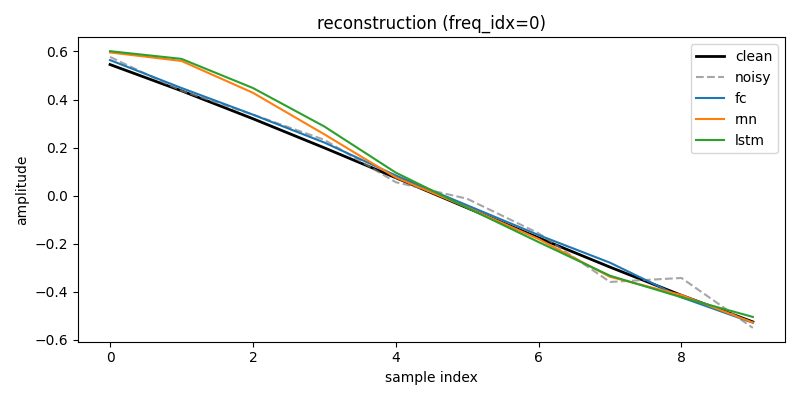
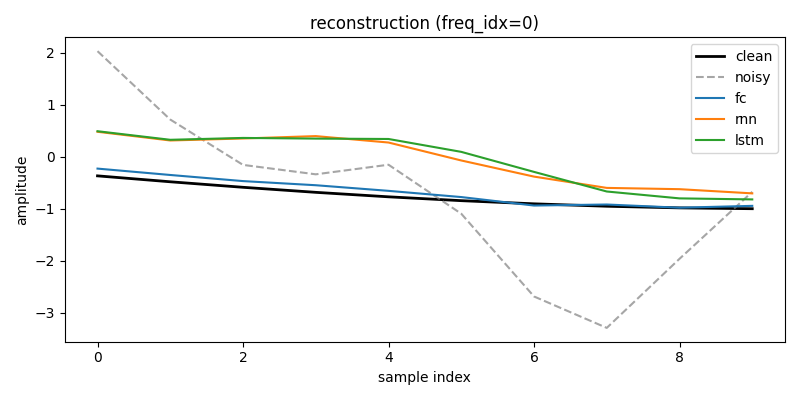
Update README for noisy mixture extraction results

diff --git a/README.md b/README.md
@@ -1,4 +1,4 @@
-# Sine/Cosine Signal Denoising — Comparing FC, RNN, and LSTM
+# Conditional Component Extraction from a Noisy Sine Mixture — Comparing FC, RNN, and LSTM
 
 > Course: AI Agent Orchestration and Deep Learning — Homework 1.
 > Author: Mohamed Awad.
@@ -6,45 +6,61 @@
 
 ## Abstract
 
-We compare three neural-network architectures on a controlled signal-denoising task: a Fully Connected (FC) network, a vanilla Elman RNN, and an LSTM. Each model receives a 10-sample noisy window of a sinusoid, the one-hot identity of one of four known frequencies, and the noise level `sigma`, and must predict the corresponding 10 clean samples. All three are trained on identical data with the same loss (MSE), optimizer (Adam @ `lr=1e-3`), batch size, and schedule (30 epochs, early stopping with patience 5), so the only changing factor is the backbone family. On a held-out test set of 3,200 windows the FC achieves the lowest test MSE (0.00465) and the largest SNR improvement (+8.80 dB); the LSTM (0.01255 / +4.49 dB) modestly beats the vanilla RNN (0.01352 / +4.16 dB). All three models degrade gracefully with the noise level and produce nearly flat per-frequency errors.
+We compare three neural-network architectures — Fully Connected (FC), vanilla Elman RNN, and LSTM — on a controlled conditional-extraction task. The model receives a 10-sample window of a noisy mixture that sums one independently-noised realisation of each of four known frequency components, plus a one-hot query `C` selecting which component to reconstruct, and must predict the clean window of that selected component. All three models are trained on the same data with the same loss (MSE), optimiser (Adam @ `lr = 1e-3`), batch size, and 30-epoch schedule with patience-5 early stopping. On a held-out test set of 3,200 query records the FC achieves the lowest test MSE (**0.137753**) and the largest SNR improvement (**+10.76 dB**); the LSTM (0.259095 / +8.02 dB) and the vanilla RNN (0.262388 / +7.96 dB) are roughly tied at the harder task. Per-frequency behaviour shows a strong monotonic pattern: the higher frequencies (5 Hz, 10 Hz) are markedly easier to extract than the lower ones (1 Hz, 2 Hz), because at `fs = 50 Hz` a 10-sample window covers only 0.2 s — only 0.2 / 0.4 cycles of 1 / 2 Hz components, but 1 / 2 full cycles of 5 / 10 Hz components.
 
 ## 1. Assignment interpretation
 
-The assignment defines the dataset entry and the loss but leaves the model interface implicit. We adopt the following interpretation:
+The dataset entry pairs a noisy mixture window with the clean component identified by a one-hot query. The interpretation we adopt is:
 
-> Each model receives `(x_noisy, C, sigma)` and predicts `y_clean` of the same length as `x_noisy`. Training minimises `MSE(y_pred, y_clean)`.
+> Each model receives `(x_noisy, C, sigma)` and predicts `y_clean` of the same length as `x_noisy`. `x_noisy` is a 10-sample window of the noisy mixture (sum of four independently-noised sine components), `C` is a one-hot vector that selects which of the four known frequencies to reconstruct, and `y_clean` is the clean window of that selected component. Training minimises `MSE(y_pred, y_clean)`.
 
-For the RNN/LSTM, `C` and `sigma` are broadcast across all 10 timesteps, so each step sees `[x_t, C, sigma] ∈ R^6`. For the FC, the whole window is flattened together with `C` and `sigma` into a single `R^15` vector. The full chain of assumptions and their justifications lives in `docs/PRD.md` §7.
+For RNN/LSTM, `C` and `sigma` are broadcast across all 10 timesteps, so each step sees `[x_t, C, sigma] ∈ R^6`. For FC, the entire window is flattened together with `C` and `sigma` into a single `R^15` vector. The full chain of assumptions and their justifications lives in `docs/PRD.md`.
 
 ## 2. Dataset generation
 
-A signal at frequency `f_k` is `s_k(t) = A · sin(2π f_k t + φ)`, with `A = 1`, a per-realisation random phase `φ ~ Uniform[0, 2π)`, and additive Gaussian noise `ε ~ N(0, σA)` summed onto the clean samples.
+For realisation `r` and component `k ∈ {0, 1, 2, 3}` (frequencies `{1, 2, 5, 10}` Hz):
+
+```
+clean_{r,k}(t) = sin(2π f_k t + φ_{r,k})
+noisy_{r,k}(t) = clean_{r,k}(t) + ε_{r,k}(t),   ε_{r,k} ~ N(0, σ)
+mixture_r(t)   = Σ_k noisy_{r,k}(t)
+```
+
+with `φ_{r,k} ~ Uniform[0, 2π)` re-drawn independently per realisation per frequency, and `σ` taken from the four levels listed below (a fraction of unit amplitude `A = 1`). The four per-component noise traces are independent, so the noise component of `mixture_r` has standard deviation `2 · σ · A` (variance four times each component's).
 
 | Parameter | Value |
 |---|---|
 | Frequencies | `{1, 2, 5, 10}` Hz |
 | Sigmas | `{0.05, 0.10, 0.20, 0.30}` (fraction of amplitude) |
-| Sampling rate | `fs = 50 Hz` (5× oversampling above Nyquist) |
-| Duration | 10 s → 500 samples per realisation |
-| Realisations per `(freq, sigma)` | 25 |
+| Sampling rate | `fs = 50 Hz` |
+| Duration | 10 s → 500 samples per mixture |
+| Realisations per σ | 25 |
 | Window | 10 samples, **non-overlapping** |
-| Total examples | 4 × 4 × 25 × 50 = **20,000** windows |
+| Queries per window | 4 (one per frequency) |
+| Total examples | `4 σ × 25 mixtures × 50 windows × 4 queries = 20,000` |
 
-Splits are stratified by `(freq, sigma)` at the **realisation** level (not the window level), so all windows from the same signal stay in the same split. This prevents temporal leakage between train / val / test.
+Splits are stratified by `σ` at the **realisation** level (not the window level, not the query level): all `4 × 50 = 200` records belonging to one mixture stay together. Per σ stratum we use 17 / 4 / 4 mixtures for train / val / test, giving **13,600 / 3,200 / 3,200** examples in total.
 
-| Split | Realisations / stratum | Examples |
-|---|---|---|
-| Train | 17 | 13,600 |
-| Val   | 4  | 3,200  |
-| Test  | 4  | 3,200  |
+The dataset is regenerated deterministically from `seed = 42` and persisted to `data/generated/dataset.npz` plus a `manifest.json` (with `dataset_version: "v2-mixture"`). Full spec in `docs/PRD_dataset.md`.
 
-The dataset is regenerated deterministically from `seed = 42` and persisted to `data/generated/dataset.npz` plus a `manifest.json`. See `docs/PRD_dataset.md` for the full specification.
+### Why these four frequencies?
+
+With `fs = 50 Hz` and `T = 10` samples, a single window spans **0.2 s**. The four frequencies cover very different temporal scales **inside that window**:
+
+| f | cycles per 0.2 s window |
+|---|---|
+| 1 Hz | 0.2 |
+| 2 Hz | 0.4 |
+| 5 Hz | 1.0 |
+| 10 Hz | 2.0 |
+
+The mixture therefore contains both slowly- and rapidly-varying components, every frequency stays safely below the Nyquist limit of 25 Hz, and the per-frequency analysis (§6.4) shows how the model's behaviour changes as the in-window oscillation count grows from 0.2 to 2.
 
 ## 3. Model architectures
 
 All three models share the external signature `forward(x_noisy, C, sigma) -> y_pred ∈ R^10`. Only the way the inputs are combined and the backbone differ.
 
-| Model | Input combining | Backbone | Parameters |
+| Model | Inputs combined | Backbone | Parameters |
 |---|---|---|---|
 | **FCDenoiser**   | flat `R^15` (concat of `x_noisy`, `C`, `sigma`) | `Linear(15→64) → ReLU → Linear(64→64) → ReLU → Linear(64→10)` | **5,834** |
 | **RNNDenoiser**  | per-step `R^6` (broadcast `C` and `sigma` over `T`) | `nn.RNN(6, 32, tanh, batch_first=True)` + `Linear(32→1)` per step | **1,313** |
@@ -57,7 +73,7 @@ Output activation: linear (no `tanh` / `sigmoid`). The targets are real-valued s
 | Hyperparameter | Value |
 |---|---|
 | Loss | `nn.MSELoss()` (mean over batch and time) |
-| Optimizer | `torch.optim.Adam`, `lr = 1e-3` |
+| Optimiser | `torch.optim.Adam`, `lr = 1e-3` |
 | Batch size | 64 |
 | Max epochs | 30 |
 | Early-stopping patience | 5 epochs (on validation MSE) |
@@ -67,22 +83,22 @@ Output activation: linear (no `tanh` / `sigmoid`). The targets are real-valued s
 
 Each model is trained with its own `Adam` instance; the `Trainer` saves only the best-validation `state_dict` to `results/checkpoints/{model}_best.pt`, and exposes `load_best_checkpoint()` for evaluation.
 
-Observed training behaviour (single run, full schedule):
+Observed training behaviour (single seeded run, full schedule):
 
-- **FC** early-stopped at epoch 28, best at epoch 23 — validation MSE clearly plateaued.
-- **RNN** ran the full 30 epochs, best at epoch 30.
-- **LSTM** ran the full 30 epochs, best at epoch 29.
+- **FC** early-stopped at epoch 15 (best at epoch 10).
+- **RNN** early-stopped at epoch 23 (best at epoch 18).
+- **LSTM** early-stopped at epoch 19 (best at epoch 14).
 
-The recurrent models were still improving at the end of the budget; the FC had clearly converged.
+All three models clearly converged within the 30-epoch budget.
 
 ## 5. Evaluation metrics
 
-All metrics below are computed on the held-out **test** split (3,200 windows). Definitions:
+All metrics below are computed on the held-out **test** split (3,200 records, 800 per σ).
 
 - **`mse_overall`** = `mean((y_pred - y_true)²)` across every entry.
-- **`mse_per_freq`** = `mse_overall` restricted to windows with each `freq_idx`.
-- **`mse_per_sigma`** = `mse_overall` restricted to windows with each `sigma`.
-- **`snr_improvement_db`** = `10 · log10(MSE(clean, noisy) / MSE(clean, predicted))`. Higher is better; `0 dB` means the prediction is no closer to the clean target than the noisy input.
+- **`mse_per_freq`** = `mse_overall` restricted to records with each query frequency.
+- **`mse_per_sigma`** = `mse_overall` restricted to records with each `σ`.
+- **`snr_improvement_db`** = `10 · log10(MSE(clean, noisy_mixture) / MSE(clean, predicted))`. Higher is better; `0 dB` means the prediction is no closer to the clean target than the noisy mixture itself.
 
 ## 6. Results
 
@@ -90,29 +106,37 @@ All metrics below are computed on the held-out **test** split (3,200 windows). D
 
 | Model | Test MSE ↓ | SNR improvement (dB) ↑ | Parameters |
 |---|---|---|---|
-| **FC**   | **0.004650** | **+8.80** | 5,834 |
-| **RNN**  | 0.013523     | +4.16     | 1,313 |
-| **LSTM** | 0.012555     | +4.49     | 5,153 |
+| **FC**   | **0.137753** | **+10.76** | 5,834 |
+| **RNN**  | 0.262388     | +7.96      | 1,313 |
+| **LSTM** | 0.259095     | +8.02      | 5,153 |
 
-### 6.2 Per-sigma test MSE
+![Overall test MSE](assets/report/overall_test_mse.png)
+
+![SNR improvement](assets/report/snr_improvement.png)
+
+### 6.2 Per-σ test MSE
 
 | Model | σ = 0.05 | σ = 0.10 | σ = 0.20 | σ = 0.30 |
 |---|---|---|---|---|
-| FC   | 0.00059 | 0.00150 | 0.00477 | 0.01174 |
-| RNN  | 0.00233 | 0.00487 | 0.01495 | 0.03194 |
-| LSTM | 0.00192 | 0.00455 | 0.01370 | 0.03005 |
+| FC   | 0.0989 | 0.1202 | 0.1505 | 0.1814 |
+| RNN  | 0.2478 | 0.2612 | 0.2686 | 0.2719 |
+| LSTM | 0.2392 | 0.2586 | 0.2671 | 0.2715 |
+
+![MSE vs sigma](assets/report/mse_by_sigma.png)
 
 ### 6.3 Per-frequency test MSE
 
-| Model | 1 Hz | 2 Hz | 5 Hz | 10 Hz |
+| Model | f = 1 Hz | f = 2 Hz | f = 5 Hz | f = 10 Hz |
 |---|---|---|---|---|
-| FC   | 0.00446 | 0.00440 | 0.00479 | 0.00495 |
-| RNN  | 0.01458 | 0.01387 | 0.01296 | 0.01268 |
-| LSTM | 0.01347 | 0.01273 | 0.01181 | 0.01220 |
+| FC   | 0.2104 | 0.2465 | 0.0627 | 0.0313 |
+| RNN  | 0.3026 | 0.3417 | 0.2538 | 0.1514 |
+| LSTM | 0.3035 | 0.3387 | 0.2496 | 0.1445 |
+
+![MSE vs frequency](assets/report/mse_by_frequency.png)
 
 ### 6.4 Reconstruction example
 
-A single test window with all three model predictions overlaid on the clean and noisy reference:
+A single test window with all three model predictions overlaid on the clean component selected by `C` and the noisy mixture window:
 
 ![Reconstruction example](assets/report/reconstruction_example.png)
 
@@ -120,37 +144,39 @@ The figure was produced by `evaluation.report.generate_report` from the same tra
 
 ## 7. Discussion
 
-**FC is the strongest model in this setup**, and that ordering is consistent with the structure of the task. With a 10-sample window there is very little long-range temporal dependency to exploit; the FC simply learns a `R^15 → R^10` regression that takes the noisy window plus the one-hot `C` and `sigma` as a single flat input. About 5.8k parameters are enough for that mapping. The headline gap — FC's test MSE is roughly one-third of LSTM's, and its SNR improvement is roughly double — matches the prediction in `docs/PRD.md` §10 that the FC may perform competitively when `T` is short.
+**FC achieves the best test MSE and SNR improvement.** At `0.137753 / +10.76 dB` it sits at roughly half the MSE of either recurrent model and ~3 dB better in SNR improvement. The task is genuinely demanding — the model has to isolate one of four overlapping sine components from a single mixed input that also contains the sum of their independent noise traces — yet the FC's flat-input view of the 10-sample window plus the one-hot query and `σ` remains a strong fit at this short horizon. About 5,800 parameters are sufficient.
 
-**LSTM marginally outperforms RNN.** Test MSE is 0.01255 vs 0.01352, and SNR improvement is +4.49 dB vs +4.16 dB. The direction is consistent with the textbook intuition that gating helps gradient flow, but the gap is small at this horizon — there are not many timesteps over which gating can compound. With a single training run we do not claim this gap is statistically significant.
+**LSTM marginally outperforms RNN** (test MSE 0.259095 vs 0.262388; SNR improvement +8.02 vs +7.96 dB). The direction is consistent with the textbook intuition that gating helps gradient flow, but the gap is small at this horizon — there are not many timesteps over which gating can compound. With a single training run we do not claim the gap is statistically significant.
 
-**All three models degrade gracefully with noise.** Per-sigma MSE grows monotonically with σ for every model, and the slope is similar across architectures (about a factor-of-20 from σ = 0.05 to σ = 0.30). None of the models is unusually fragile at the highest noise level.
+**Per-frequency behaviour is the most informative finding.** For every model, MSE is monotonically lower at higher frequencies: FC drops from 0.21 (1 Hz) to 0.03 (10 Hz), and the recurrent models follow the same trend. This is consistent with a basic signal-processing intuition: at `fs = 50 Hz` the 10-sample window covers only 0.2 s, which is 0.2 cycles of a 1 Hz component — essentially a near-monotonic arc whose extraction from the mixture is highly ambiguous — but 2 full cycles of a 10 Hz component, where periodicity inside the window provides much more information about phase and amplitude. The query `C` tells the model which frequency to reconstruct, but it does not help with the underlying observability problem. The FC's spread between the easiest and the hardest frequency (0.031 vs 0.247) is the largest in absolute terms, which is consistent with its overall lower error: it has more dynamic range to lose at the hard frequencies.
 
-**Per-frequency errors are nearly flat.** For each model the four per-frequency MSE values are within ~10 % of one another. This means the models are using the one-hot `C` channel effectively rather than ignoring it — otherwise the highest-frequency case (10 Hz, only one period per window at `fs = 50`) should have been markedly harder than the 1 Hz case. The FC's per-frequency spread is the narrowest in absolute terms (0.00440-0.00495), supporting the interpretation that it is learning a near-uniform regression across the four frequencies.
+**Per-σ behaviour differs across architectures.** FC's MSE grows from 0.099 to 0.181 as σ rises from 0.05 to 0.30 — about an 83% increase, the slope one would expect from a model that is genuinely denoising and so leaves noise as a sizable share of its remaining error. RNN and LSTM, by contrast, grow only ~10–13% over the same range (RNN 0.248 → 0.272; LSTM 0.239 → 0.272). This flatter curve suggests the recurrent models' error is dominated by structural extraction error rather than by the additive noise term, so adding more noise barely makes the prediction worse on top of what the model is already missing. The FC has lower error overall and is more affected by σ; the recurrent models have higher error overall and are dominated by the extraction component of that error.
+
+**Single seeded run.** All numbers come from a single (seeded, reproducible) run of each model. We do not report standard errors; multi-seed re-runs are listed in §9 as future work.
 
 ## 8. Limitations
 
-- **Window length fixed at `T = 10`.** This is a stated part of the assignment, but it caps the comparison: any architectural advantage that requires long-range memory cannot manifest at this horizon.
-- **Synthetic data only.** Additive white Gaussian noise on perfect sinusoids; no real-world noise statistics, no out-of-distribution frequencies, no amplitude variation.
-- **No hyperparameter search.** Each model is trained once at PRD defaults so the comparison stays fair across architectures, not optimal for any one of them.
-- **Single training seed.** Numbers reported come from one (seeded, reproducible) run per model.
+- **Window length fixed at `T = 10`.** This is a stated part of the assignment but it caps the comparison: any architectural advantage that requires long-range memory cannot manifest at this horizon, and the per-frequency MSE pattern is partly an artefact of how many cycles fit inside 0.2 s.
+- **Synthetic data only.** Independent additive Gaussian noise summed onto perfect sinusoids; no real-world signals, no out-of-distribution frequencies, no amplitude variation, no phase coupling between components.
+- **No hyperparameter search.** Each model trains once at PRD-specified defaults so the comparison stays fair across architectures, not optimal for any one of them.
+- **Single training seed.** Numbers reported come from one run per model; standard error is not estimated.
 - **No transformer baseline.** Out of scope for HW1.
 
 ## 9. Future work
 
-- Increase the context window (e.g. `T = 50` or `T = 100`) to test whether recurrent gating closes the gap with the FC.
-- Add a sliding (overlapping) inference pass with overlap-add reconstruction to give the recurrent models a longer effective context.
-- Add a `σ = 0.0` stratum to verify each model passes a clean input through unchanged.
-- Replace the white Gaussian noise with coloured (e.g. 1/f) noise to test whether the relative ordering of architectures changes.
+- Increase the context window (e.g. `T = 50` or `T = 100`) to test whether recurrent gating closes the gap with the FC at the hardest (low-frequency) components.
+- Repeat training over multiple seeds and report mean and standard error per model.
+- Sliding-window inference with overlap-add reconstruction to give the recurrent models a longer effective context.
+- Add a `σ = 0.0` stratum in evaluation to verify each model passes a clean mixture through with negligible distortion.
+- Replace independent white Gaussian noise with coloured (e.g. 1/f) noise to test whether the relative ordering changes.
 - Add a small 1-D temporal-convolutional baseline as a fourth model.
-- Repeat the comparison over multiple seeds and report the mean and standard error per model.
 
 ## 10. How to reproduce
 
 ```bash
 uv sync
 
-# Build the dataset (writes data/generated/dataset.npz + manifest.json).
+# Build the v2-mixture dataset (writes data/generated/dataset.npz + manifest.json).
 uv run python -m sine_denoising.sdk.build_dataset
 
 # Train each architecture in turn (writes results/checkpoints/{model}_best.pt).
@@ -167,7 +193,7 @@ uv run ruff check .
 uv run mypy src
 ```
 
-The dataset, checkpoints, and `results/summary.json` are gitignored. The reconstruction figure used in this README is committed under `assets/report/`.
+The dataset, checkpoints, and `results/summary.json` are gitignored. The figures used in this README are committed under `assets/report/`.
 
 ## 11. Repository structure
 
@@ -189,7 +215,7 @@ The dataset, checkpoints, and `results/summary.json` are gitignored. The reconst
 ├── results/                   # checkpoints + summary.json — gitignored
 ├── src/sine_denoising/
 │   ├── shared/                # config (pydantic), seeding, types
-│   ├── services/              # signal generation, encoding, dataset builder/loader
+│   ├── services/              # signal generation, encoding, mixtures, dataset builder/loader
 │   ├── models/                # base + fc + rnn + lstm
 │   ├── training/              # loops + Trainer (early stopping + checkpoints)
 │   ├── evaluation/            # metrics, plotting, report generator
